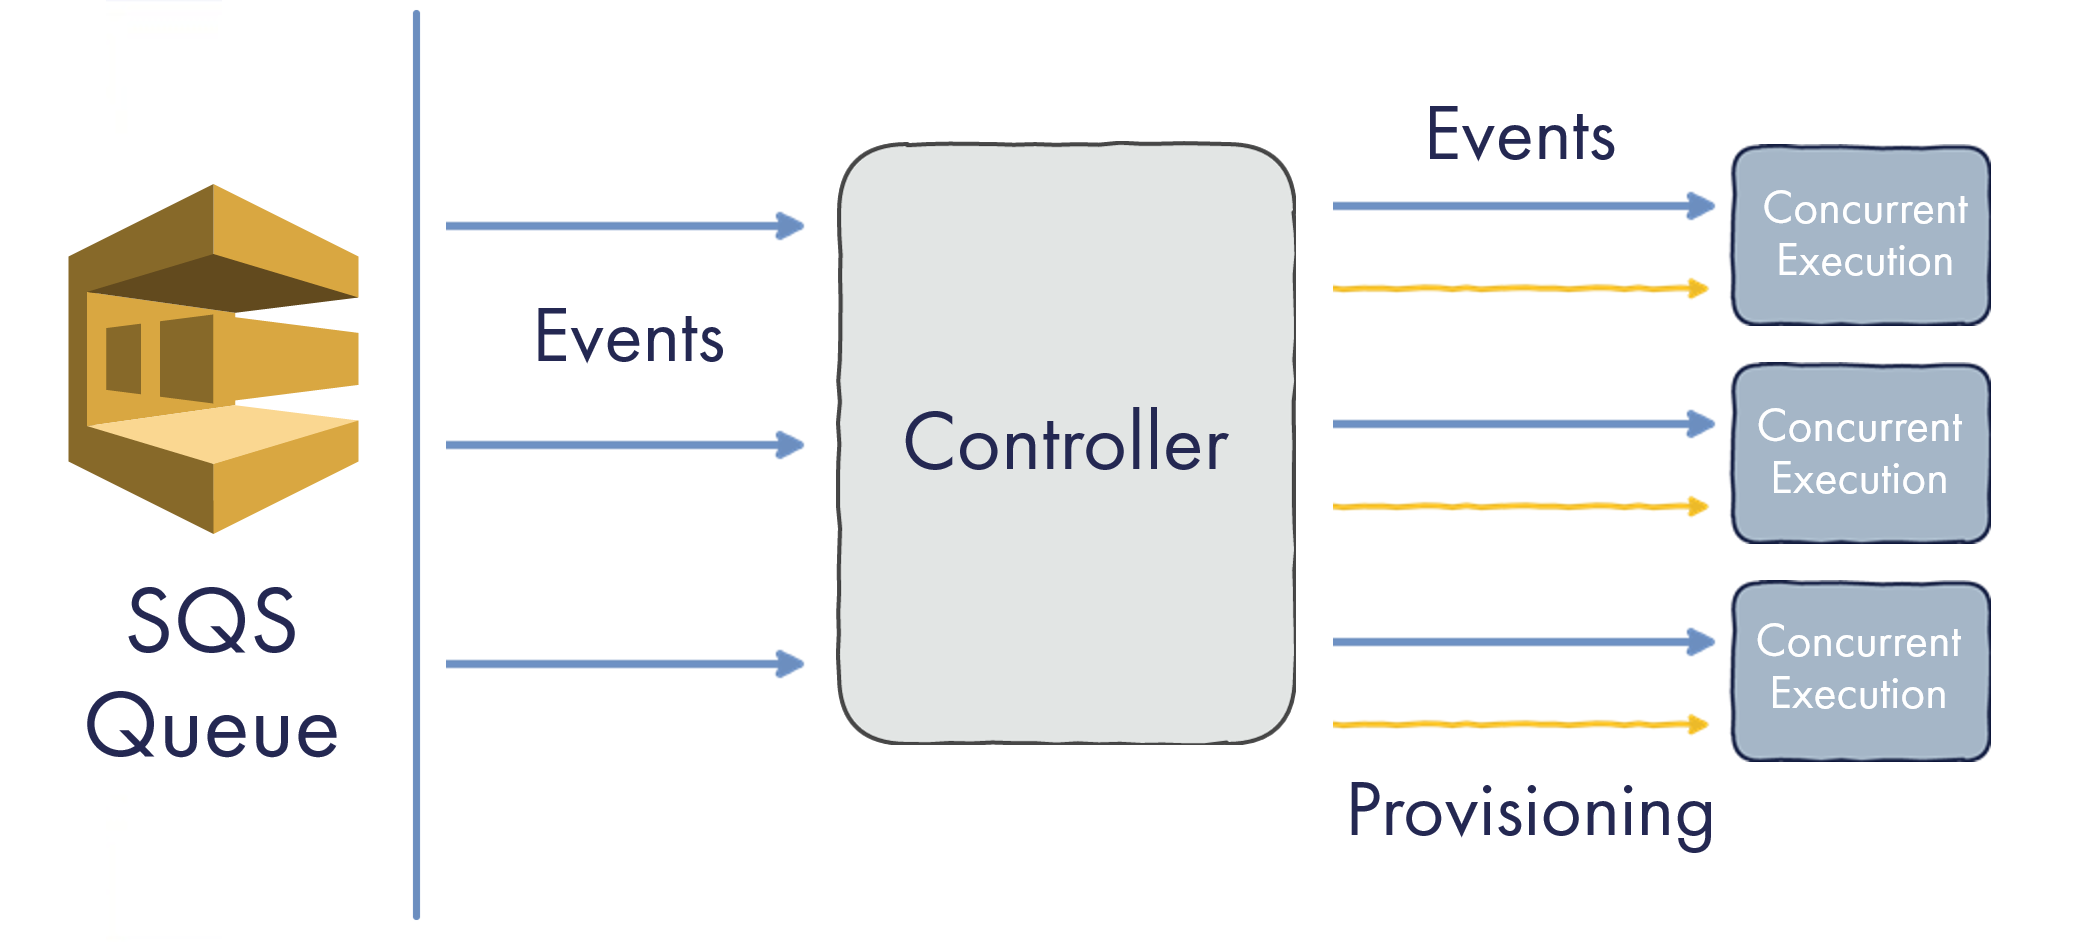
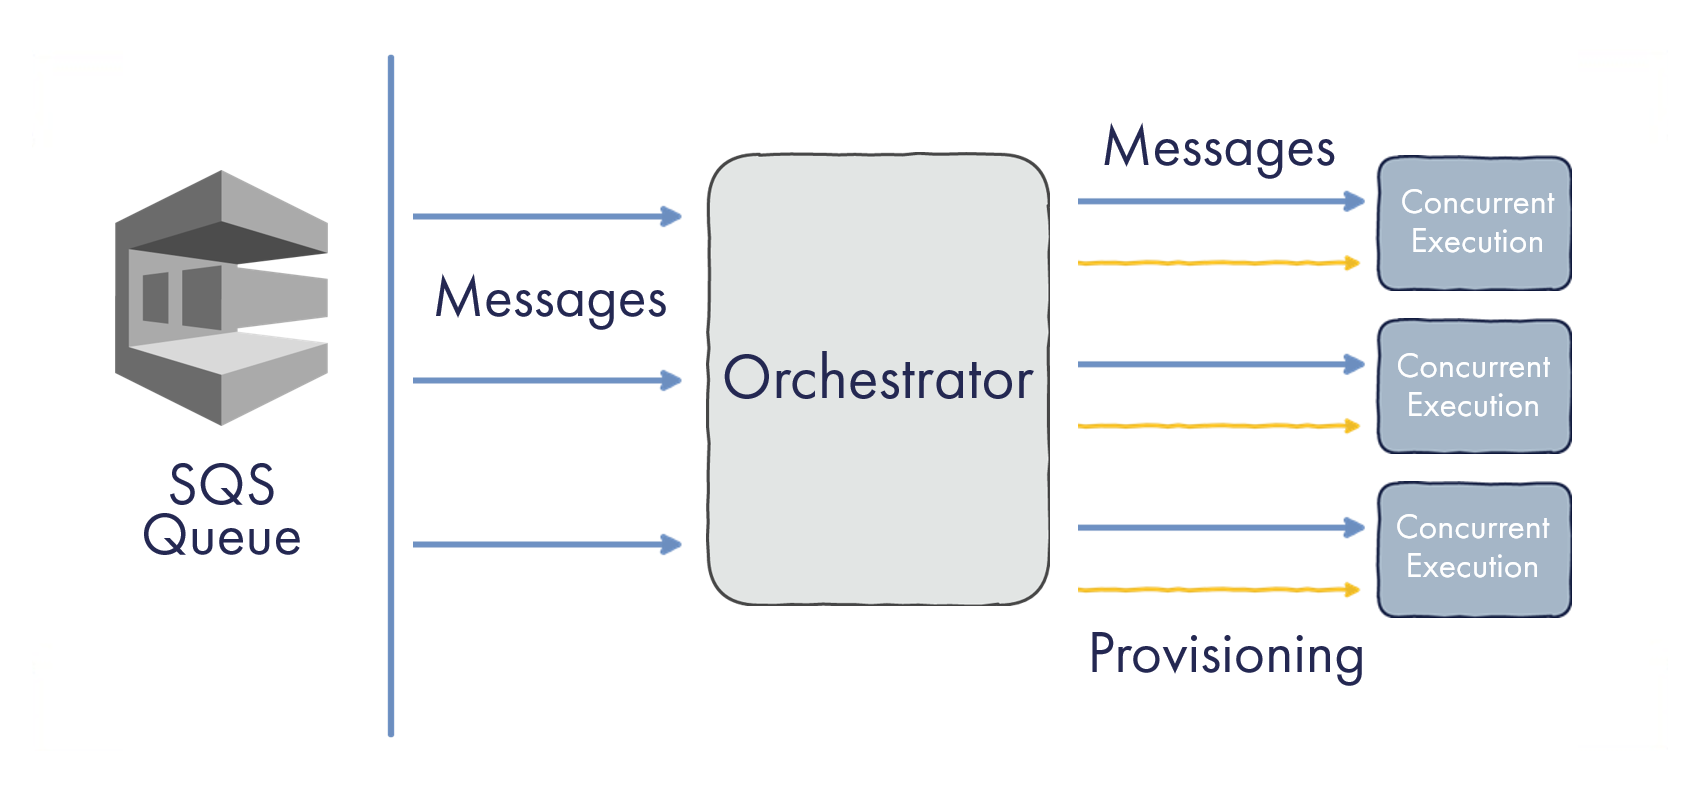
Changed images for the article

Changed region(s): [[0.0312, 0.0312, 0.9665, 0.9688], [0.0312, 0.7188, 0.1559, 0.8125]]

diff --git a/src/documents/2018/11/how-serverless-providers-scale-queue-processing/index.html.md b/src/documents/2018/11/how-serverless-providers-scale-queue-processing/index.html.md
@@ -7,22 +7,22 @@ teaserImage: teaser.jpg
 description: Comparison of queue processing scalability for FaaS across AWS, Azure and GCP
 ---
 
-Whenever I see a Getting Started with Function-as-a-Service tutorial, it usually shows off an HTTP-triggered synchronous scenario.
+Whenever I see a "Getting Started with Function-as-a-Service" tutorial, it usually shows off a synchronous HTTP-triggered scenario.
 In my projects though, I use a lot of asynchronous functions triggered by a queue or an event stream.
 
-Quite often, the number of messages going through a queue doesn't stay flat over time. I might drop batches of work now and
-then. My app might get piles of queue items arriving from upstream systems which were down or under maintenance for an extended period.
-The system might see some rush-hour peaks every day or busy days every month.
+Quite often, the number of messages passing through a queue isn't uniform over time. I might drop batches of work now and
+then. My app may get piles of queue items arriving from upstream systems which were down or under maintenance for an extended period.
+The system might see some rush-hour peaks every day or only a few busy days per month.
 
-That's where serverless tech shines: you pay per execution, and the provider takes care of scaling up or down for you. That's the
-promise. Today I want to put this scalability under test.
+This is where serverless tech shines: you pay per execution, and then the promise is that the provider takes care of scaling up 
+or down for you. Today I want to put this scalability under test.
 
-The goal of my article is to explore queue-triggered serverless Functions:
+The goal of this article is to explore queue-triggered serverless Functions and hopefully distill some practical advice regarding 
+asynchronous functions for real projects. I will be evaluating the problem:
 
 - Across Big-3 cloud providers (Amazon, Microsoft, Google)
-- For different types of workload
+- For different types of workloads
 - For different performance tiers
-- To come up with practical advice over asynchronous functions for real projects
 
 Let's see how I did that and what the outcome was.
 
@@ -33,36 +33,37 @@ to know a way to improve my tests, please let me know, and I will re-run them an
 Methodology
 -----------
 
-In this article I analyze the results of executions of the following cloud services:
+In this article I analyze the execution results of the following cloud services:
 
-- AWS Lambda triggered by SQS queues
-- Azure Function triggered by Storage Queues
-- Google Cloud Function triggered by Cloud Pub/Sub
+- AWS Lambda triggered via SQS queues
+- Azure Function triggered via Storage Queues
+- Google Cloud Function triggered via Cloud Pub/Sub
 
 All functions are implemented in Javascript and are running on GA runtime.
 
-At the beginning of each test, I throw 100.000 messages into the queue which was idle before that. Enqueuing never took longer
+At the beginning of each test, I throw 100.000 messages into the queue which was previously idle. Enqueuing never took longer
 than 1 minute (I send from multiple clients in parallel).
 
 I disabled any batch processing, so each message is consumed by a separate Function invocation.
 
-I then analyze the logs (AWS CloudWatch, Azure Application Insights, and GCP Stackdriver Logging) to draw charts of executions
+I then analyzed the logs (AWS CloudWatch, Azure Application Insights, and GCP Stackdriver Logging) to generate charts of execution
 distribution over time.
 
 How Scaling Actually Works
 --------------------------
 
-To understand the results better, let's start by looking at a very simplistic but still useful model of how cloud providers are
-scaling the serverless applications.
+To understand the experiment better, let's look at a very simplistic but still useful model of how cloud providers
+scale the serverless applications.
 
-All the providers are handling the increased load by "scaling out", i.e., by creating multiple instances of the same application that
-execute the chunks of work in parallel. 
+All the providers handle the increased load by 
+[scaling out](https://en.wikipedia.org/wiki/Scalability#Horizontal_and_vertical_scaling), 
+i.e., by creating multiple instances of the same application that execute the chunks of work in parallel. 
 
-In theory, a cloud provider could spin up an instance for each message in a queue as soon as the messages arrive. The backlog processing
+In theory, a cloud provider could spin up an instance for each message in the queue as soon as the messages arrive. The backlog processing
 time would then stay very close to zero.
 
-In practice, allocating instances is not cheap. Cloud provider has to boot up the function, hit a
-[cold start](https://mikhail.io/2018/08/serverless-cold-start-war/) and otherwise waste expensive resources on a job which 
+In practice, allocating instances is not cheap. Cloud provider has to boot up the function runtime, hit a
+[cold start](https://mikhail.io/2018/08/serverless-cold-start-war/) and waste expensive resources on a job which 
 potentially will take just a few milliseconds.
 
 So the providers are trying to find a sweet spot between handling the work as soon as possible and using resources
@@ -73,16 +74,16 @@ efficiently. The outcomes differ, which is the point of my article.
 AWS Lambda defines scale out with a notion of Concurrent Executions. Each instance of your AWS Lambda is handling a single
 execution at any given time. In our case, it's processing a single SQS message.
 
-It's helpful to imagine an instance to be a container working on a single task. If an execution pauses or waits for an external
+It's helpful to think of a function instance as a container working on a single task. If execution pauses or waits for an external
 I/O operation, the instance is on hold.
 
 The model of concurrent executions is universal to all trigger types supported by Lambdas. An instance doesn't work with event
 sources directly; it just receives an event to work on.
 
-There is a central element in the system, let's call it "Controller" (is there an official name?). Controller is the one talking 
-to an SQS queue and getting
-the messages from it. It's then the job of Controller and related infrastructure to provision the required amount of instances
-to be working on concurrent executions:
+There is a central element in the system, let's call it "Orchestrator" (is there an official name?). The Orchestrator is the 
+component talking to an SQS queue and getting
+the messages from it. It's then the job of the Orchestrator and related infrastructure to provision the required number of instances
+for working on concurrent executions:
 
 ![Model of AWS Lambda Scale-Out](/aws-lambda-queue-scaling.png)
 
@@ -103,33 +104,36 @@ I wasn't able to find any scaling specifics except the definition of [Function Q
 
 ### Azure
 
-The concurrency model of Azure Functions is different though (I assume Consumption Plan for this article).
+Experiments with Azure Functions were run on 
+[Consumption Plan](https://docs.microsoft.com/en-us/azure/azure-functions/functions-scale#consumption-plan)&mdash;the 
+dynamically scaled and billed-per-execution runtime. 
+The concurrency model of Azure Functions is different from the counterparts of AWS/GCP.
 
-Function App instance is more like a VM than a single-task container. It runs multiple concurrent executions in parallel.
-Equally importantly, it gets messages from the queue on its own, not from a central controller.
+Function App instance is closer to a VM than a single-task container. It runs multiple concurrent executions in parallel.
+Equally importantly, it pulls messages from the queue on its own instead of getting them pushed from a central Orchestrator.
 
-Scale Controller still exists, but its role is a bit more subtle. It connects to the same data source (the queue) and needs
+There is still a central coordinator called Scale Controller, but its role is a bit more subtle. It connects to the same data source (the queue) and needs
 to determine how many instances to provision based on the metrics from that queue:
 
 ![Model of Azure Function Scale-Out](/azure-function-queue-scaling.png)
 
 <center class="img-caption">Model of Azure Function Scale-Out</center>
 
-This model might have pros and cons. If one execution is idle waiting for some I/O operation like HTTP request to finish,
-the instance could get busy processing other messages, thus being more efficient. Running multiple executions is useful 
+This model has pros and cons. If one execution is idle waiting for some I/O operation like an HTTP request to finish,
+the instance might become busy processing other messages, thus being more efficient. Running multiple executions is useful 
 in terms of shared resource 
 utilization, e.g., keeping database connection pools and reusing HTTP connections.
 
-On the flip side, I can imagine the Scale Controller now needs to be smarter: to know not only the queue backlog but also how
-instances are doing and at what pace they are processing the messages. It's probably doable based on queue telemetry though.
+On the flip side, the Scale Controller now needs to be smarter: to know not only the queue backlog but also how
+instances are doing and at what pace they are processing the messages. It's probably achievable based on queue telemetry though.
 
 Let's start applying this knowledge in practical experiments.
 
 Pause-the-World Workload
 ------------------------
 
-My first serverless Function is aimed to simulate I/O-bound workloads without actually taking any external dependencies to keep
-the experiment clean. So, the implementation is extremely straightforward: pause for 500 ms and return.
+My first serverless Function is aimed to simulate I/O-bound workloads without using any external dependencies to keep
+the experiment clean. Therefore, the implementation is extremely straightforward: pause for 500 ms and return.
 
 It could be loading data from a scalable third-party API. It could be running a database query. Instead, it just runs `setTimeout`.
 
@@ -137,10 +141,13 @@ I send 100k messages to queues of all 3 cloud providers and observe the result.
 
 ### AWS
 
-Here comes the first chart of many, so let's learn to read it. The horizontal axis is showing time in minutes since
-I've sent all the messages to the queue.
+AWS Lambda allows multiple instance sizes to be provisioned. Since the workload is neither CPU- nor memory-intensive, 
+I was using the smallest memory allocation of 128 MB.
 
-The line going from top-left to bottom-right shows the decreasing queue backlog. Accordingly, the left vertical axis annotates
+Here comes the first chart of many, so let's learn to read it. The horizontal axis shows time in minutes since
+the messages were sent to the queue.
+
+The line going from top-left to bottom-right shows the decreasing queue backlog. Accordingly, the left vertical axis denotes
 the number of items still-to-be-handled.
 
 The bars show the number of concurrent executions crunching the messages at a given time. Every execution logs the instance ID 
@@ -150,8 +157,8 @@ so that I could derive the instance count from the logs. The right vertical axis
 
 <center class="img-caption">AWS Lambda processing 100k SQS messages with "Pause" handler</center>
 
-It took AWS Lambda 5.5 minutes to process the whole batch of 100k messages. If the same batch were to be processed sequentially,
-it would take about 14 hours.
+It took AWS Lambda 5.5 minutes to process the whole batch of 100k messages. For comparison, the same batch processed 
+sequentially would take about 14 hours.
 
 Notice how linear the growth of instance count is. If I apply the official scaling formula:
 
@@ -161,11 +168,9 @@ Instance Count = 5 + Minutes * 60 = 5 + 5.5 * 60  = 335
 
 We get a very close result! Promises kept.
 
-Since the workload is neither CPU- nor memory-intensive, I was using the smallest memory allocation of 128 MB.
-
 ### GCP
 
-Same function, same chart - but this time for Google Cloud Functions:
+Same function, same chart, same instance size of 128 MB of RAM&mdash;but this time for Google Cloud Functions:
 
 ![Google Cloud Function processing 100k Pub/Sub messages with "Pause" handler](/gcp-cloud-function-pubsub-iobound-scaling.png)
 
@@ -180,40 +185,41 @@ Similar to AWS, I was using the smallest memory allocation of 128 MB.
 
 ### Azure
 
+Azure Function doesn't have a configuration for allocated memory or any other instance size parameters.
+
 The shape of the chart for Azure Functions is very similar, but the instance number growth is significantly different:
 
 ![Azure Function processing 100k Queue messages with "Pause" handler](/azure-function-queue-iobound-scaling.png)
 
 <center class="img-caption">Azure Function processing 100k Queue messages with "Pause" handler</center>
 
-The total processing time got a bit faster than on AWS and somewhat slower than on GCP. Azure Function instances are more 
-"powerful", so it takes much less of them to do the same amount of "work".
+The total processing time was a bit faster than AWS and somewhat slower than GCP. Azure Function instances
+process several messages in parallel, so it takes much less of them to do the same amount of work.
 
-Instance number growth seems closer to linear than bursty.
+Instance number growth seems far more linear than bursty.
 
 ### What we learned
 
 Based on this simple test, it's hard to say if one cloud provider handles scale-out better than the others.
 
-It looks like all serverless platforms under test are making decisions at the time resolution of 5-15 seconds, so the backlog
-processing delays are likely to be measured in minutes. It sounds quite far from the theoretic "close to zero" target
-but probably is good enough for most applications.
+It looks like all serverless platforms under stress are making decisions at the resolution of 5-15 seconds, so the backlog
+processing delays are likely to be measured in minutes. It sounds quite far from the theoretical "close to zero" target
+but is most likely good enough for the majority of applications.
 
 Crunching Numbers
 -----------------
 
-That was an easy job though. Let's give cloud providers some hard time by executing CPU-heavy workloads and see if they can
-survive that!
+That was an easy job though. Let's give cloud providers a hard time by executing CPU-heavy workloads and see if they survive!
 
-This time each message handler calculates a [Bcrypt](https://en.wikipedia.org/wiki/Bcrypt) hash with a cost of 10. One such
-calculation takes typically between 100ms and 300ms on a single CPU, depending on its speed.
+This time, each message handler calculates a [Bcrypt](https://en.wikipedia.org/wiki/Bcrypt) hash with a cost of 10. One such
+calculation takes about 200ms on my laptop.
 
 ### AWS
 
 Once again, I've sent 100k messages to an SQS queue and recorded the processing speed and instance count.
 
-Since the workload is CPU-bound, and AWS allocates CPU cycles proportionally to the allocated memory, the instance size might
-have much influence on the result.
+Since the workload is CPU-bound, and AWS allocates CPU shares proportionally to the allocated memory, the instance size might
+have a significant influence on the result.
 
 I've started with the smallest memory allocation of 128 MB:
 
@@ -225,10 +231,10 @@ This time it took almost 10 minutes to complete the experiment.
 
 The scaling shape is pretty much the same as last time, still correctly described by the formula `60 * Minutes + 5`.
 However, because AWS allocates a small fraction of a full CPU to each 128 MB execution, one message takes around 1.700 ms to complete.
-Thus, the total work increased approximately by the factor of 3 (45 hours if done sequentially) and the total processing time by 
-the factor of 2 (10 minutes).
+Thus, the total work increased approximately by the factor of 3 (47 hours if done sequentially).
 
-At the peak, 612 concurrent executions were running.
+At the peak, 612 concurrent executions were running, nearly double the amount in our initial experiment. 
+So the total processing time increased only by the factor of 2&mdash;up to 10 minutes.
 
 Let's see if larger Lambda instances would improve the outcome. Here is the chart for 512 MB of allocated memory:
 
@@ -248,7 +254,7 @@ I've executed the same experiment on Google Cloud Functions. I've started with 1
 <center class="img-caption">Google Cloud Function (128 MB) processing 100k Pub/Sub messages with "Bcrypt" handler</center>
 
 The average execution duration is very close to Amazon's: 1.600 ms. However, GCP scaled more aggressively&mdash;to staggering 1169
-parallel executions! Scaling also has a different shape: it's not linear but grows in steep jumps at certain points. As a result,
+parallel executions! Scaling also has a different shape: it's not linear but grows in steep jumps. As a result,
 it took less than 6 minutes on the lowest CPU profile&mdash;very close to AWS's time on 4x more powerful CPU.
 
 What will GCP achieve on a faster CPU? Let's provision 512 MB. It must absolutely crush the test. Umm, wait, look at that:
@@ -266,16 +272,15 @@ I confirmed it with the largest instance size of 2048 MB:
 
 <center class="img-caption">Google Cloud Function (2 GB) processing 100k Pub/Sub messages with "Bcrypt" handler</center>
 
-CPU is fast: 160 ms average execution time, but the total time to process 100k messages is now 8 minutes. Beyond the initial
+CPU is fast: 160 ms average execution time, but the total time to process 100k messages went up to 8 minutes. Beyond the initial
 spike at the first minute, it failed to scale up any further and stayed at about 110 concurrent executions.
 
-Either GCP is not that keen to scale out larger instances, or I'm already hitting one of the quotas. I'll leave the root
-cause analysis to a separate article.
+It seems that GCP is not that keen to scale out larger instances. It's probably easier to find many small instances available
+on the pool rather than a similar number of giant instances.
 
 ### Azure
 
-Azure Function don't have a configuration for allocated memory or any other instance size parameters. A single invocation
-takes about 400 ms to complete. Here is the burndown chart:
+A single invocation takes about 400 ms to complete on Azure Function. Here is the burndown chart:
 
 ![Azure Function processing 100k Queue messages with "Bcrypt" handler](/azure-function-queue-cpubound-scaling.png)
 
@@ -294,18 +299,16 @@ Time for some conclusions and pieces of advice to apply in real serverless appli
 
 ### Serverless is great for async data processing
 
-If you are already using cloud services like managed queues and topics, serverless functions are the easiest way to consume them.
-Moreover, the scaling is there too: it will probably take a lot of effort (and money) to roll out a hand-made processor with comparable
-throughput and elasticity.
+If you are already using cloud services such as managed queues and topics, serverless functions are the easiest way to consume them.
 
-When was the last time when you ran 1.200 copies of your server or container?
+Moreover, the scalability is there too. When was the last time when you ran 1.200 copies of your application?
 
 ### Serverless is not infinitely scalable
 
-There are limits. Your Functions won't scale perfectly to accommodate your spike precisely&mdash;a provider-specific algorithm
+There are limits. Your Functions won't scale perfectly to accommodate your spike&mdash;a provider-specific algorithm
 will determine the scaling pattern.
 
-If you have large spikes in queue workloads, which is quite likely for medium- to high-load scenarios, you should expect
+If you have large spikes in queue workloads, which is quite likely for medium- to high-load scenarios, you can and should expect
 delays up to several minutes before the backlog is fully digested.
 
 All cloud providers have quotas and limits that define an upper boundary of scalability.
@@ -313,11 +316,11 @@ All cloud providers have quotas and limits that define an upper boundary of scal
 ### Cloud providers have different implementations
 
 **AWS Lambda** seems to have a very consistent and well-documented linear scale growth for SQS-triggered Lambda functions. It will
-happily scale to 1000 instances, or whatever another limit you hit first.
+happily scale to 1000 instances, or whatever other limit you hit first.
 
 **Google Cloud Functions** has the most aggressive scale-out strategy for the smallest instance sizes. It can be a cost-efficient and scalable
 way to run your queue-based workloads. Larger instances seem to scale in a more limited way, so a further investigation is
-required if you use one of those.
+required if you need those.
 
 **Azure Functions** share instances for multiple concurrent executions, which works better for I/O-bound workloads than for CPU-bound ones.
 Depending on the exact scenario that you have, it might help to play with instance-level settings.
@@ -327,7 +330,7 @@ Depending on the exact scenario that you have, it might help to play with instan
 For the tests, I was handling queue messages in the 1-by-1 fashion. In practice, it helps if you can batch several messages
 together and execute a single action for all of them in one go.
 
-If the destination for your data supports batched operations, the throughput will usually gain immensely.
+If the destination for your data supports batched operations, the throughput will usually increase immensely.
 [Processing 100,000 Events Per Second on Azure Functions](https://blogs.msdn.microsoft.com/appserviceteam/2017/09/19/processing-100000-events-per-second-on-azure-functions/)
 is an excellent case to prove the point.
 
@@ -338,7 +341,7 @@ His scenario looks very familiar: he uses Queue-triggered Azure Functions to not
 One day he dropped 126 million items into the queue, Azure scaled out, which overloaded Mozilla's servers and caused them to
 go all-timeouts.
 
-Non-serverless dependencies limit the scalability of your serverless application. If you call a legacy HTTP endpoint,
+Another consideration is that non-serverless dependencies limit the scalability of your serverless application. If you call a legacy HTTP endpoint,
 a SQL database, a 3rd-party web service&mdash;be sure to test how *they* react when your serverless function scales out to hundreds of
 concurrent executions.
 
